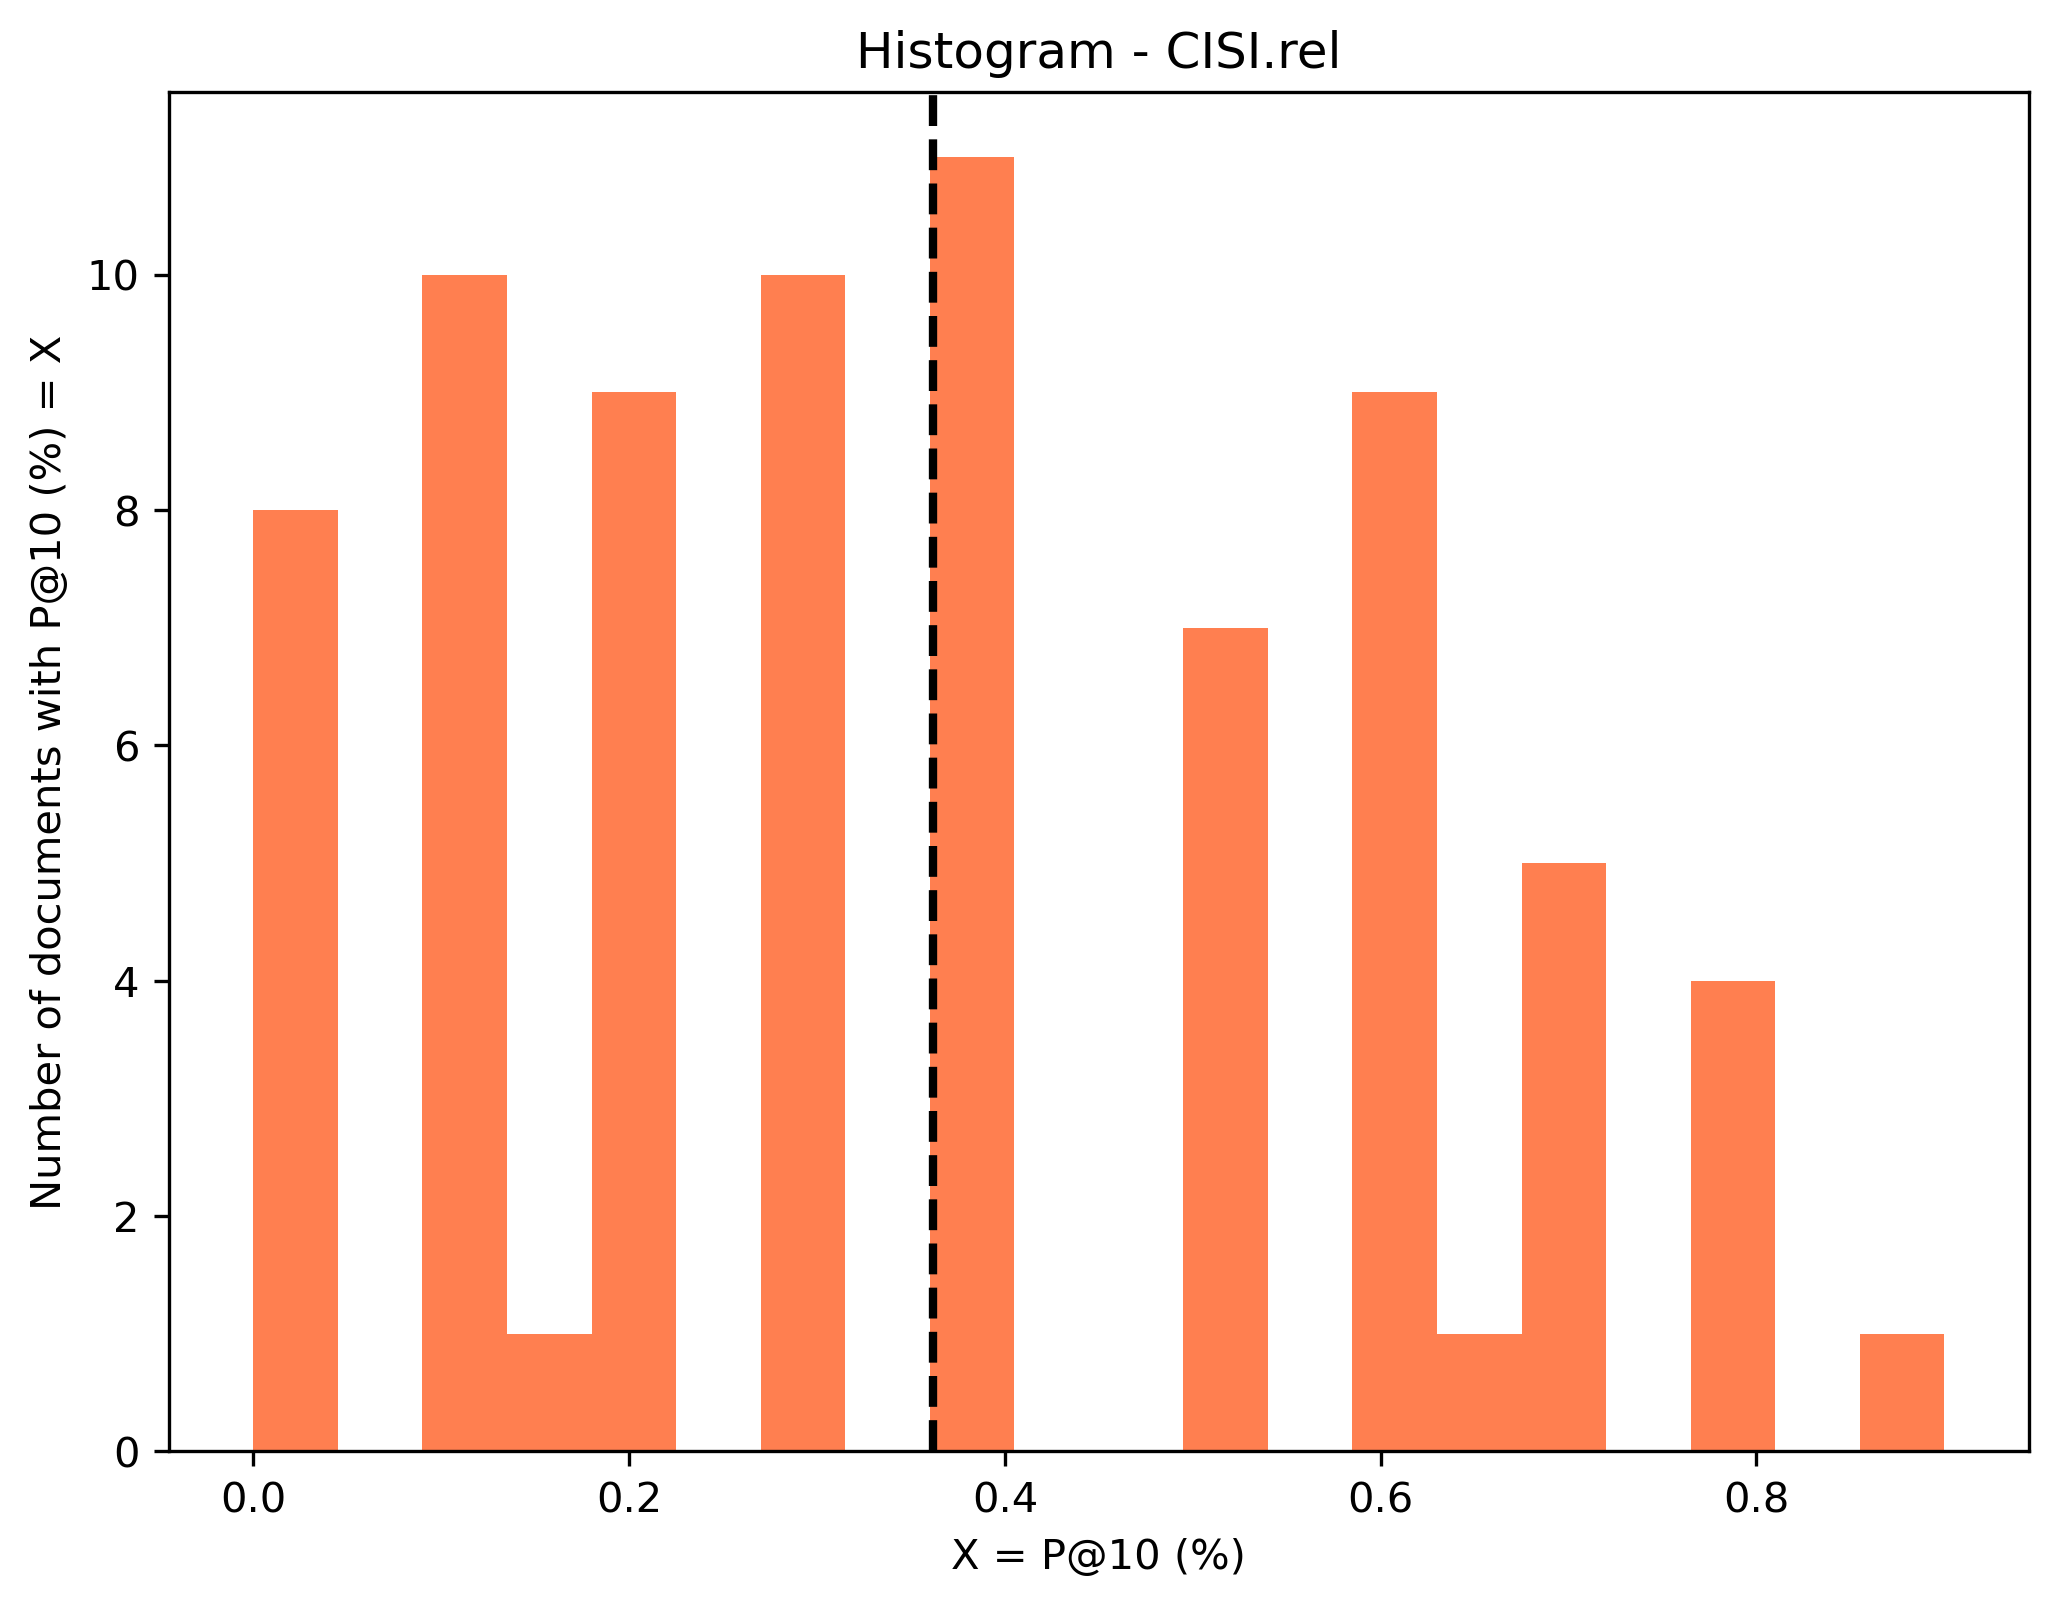
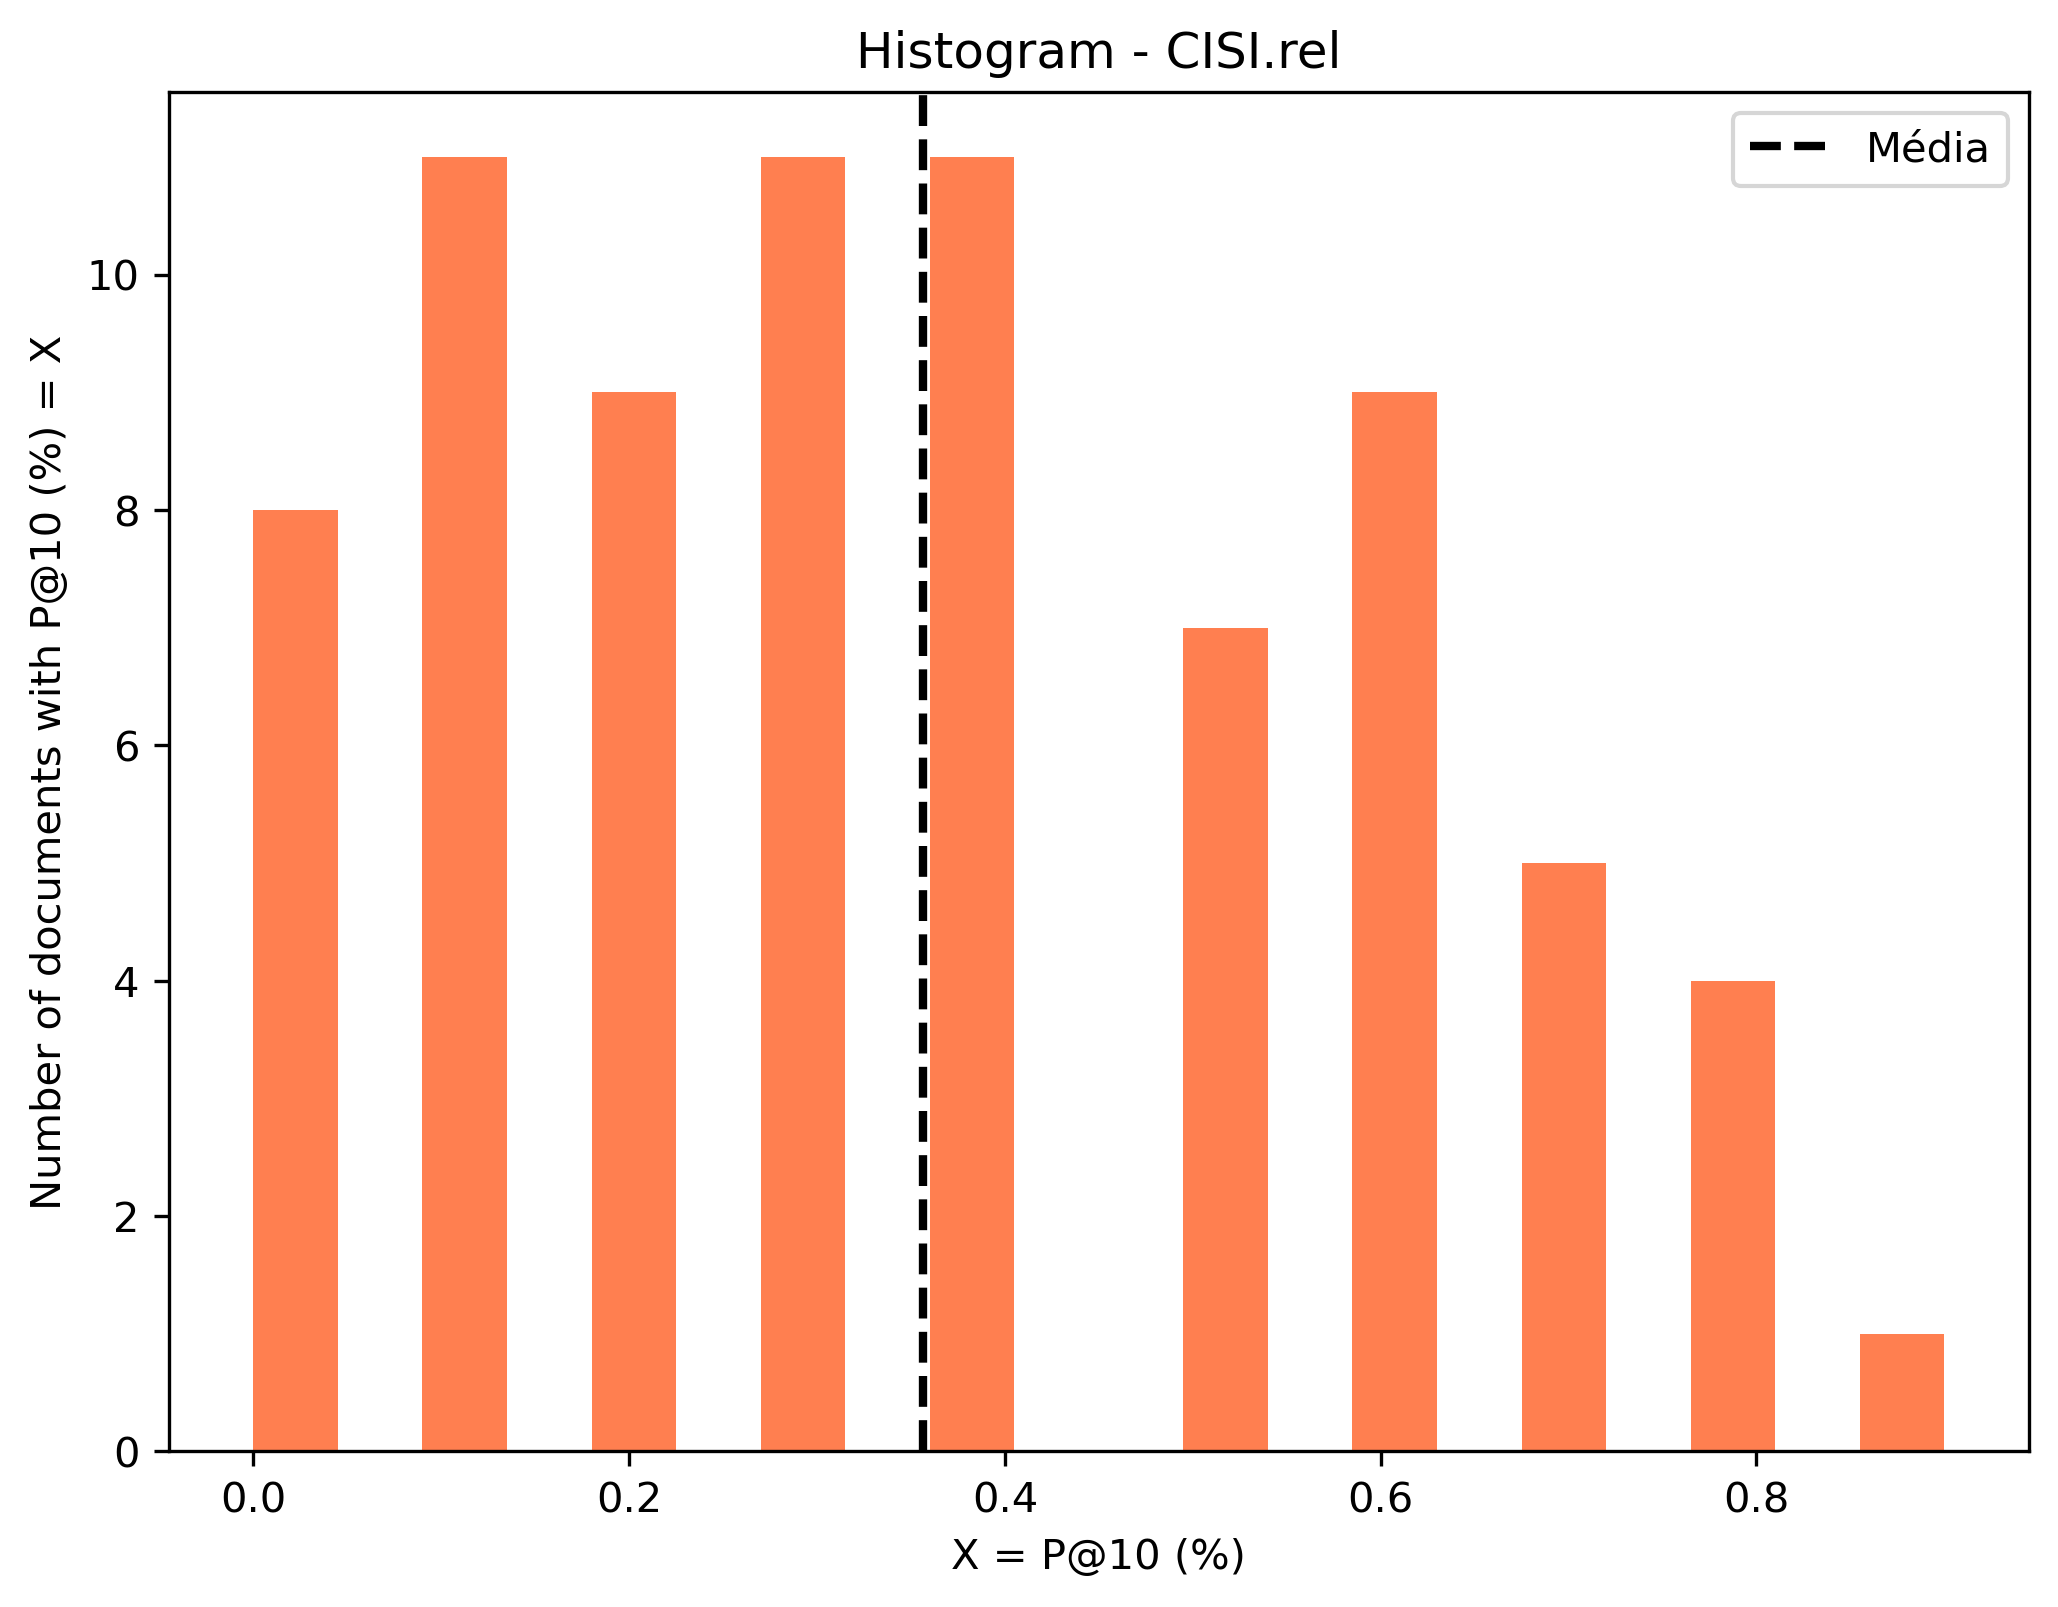
Extrai o cálculo do precision_at_k para uma função. Corrige o relatório para usar a implementação tradicional do precision_at_k

diff --git a/README.md b/README.md
@@ -255,9 +255,11 @@ De acordo com o arquivo cisi.rel, essa query tem os seguintes documentos relevan
 
 Para avaliar os resultados em toda a base CISI, vamos considerar a métrica [_precision at 10_ (P@10)](https://en.wikipedia.org/wiki/Evaluation_measures_(information_retrieval)), que corresponde ao número de resultados relevantes nas 10 primeiras posições. Para facilitar a visualização, vamos considerar esse valor em termos percentuais. Assim, se 7 documentos relevantes forem encontrados nas primeiras 10 posições (P@10 = 7), podemos calcular P@10 (%) como 7/10 = 70%.
 
-Considerando que essa base é muito pequena e que há casos (como a query 111 acima) em que não há 10 documentos relevantes, o denominador do P@10 (%) será adaptado para considerar essa situação, ou seja, P@10 (%) = número de documentos relevantes encontrados nas primeiras 10 posições do ranking dividido pelo mínimo entre 10 e número de documentos relevantes para a query.
+Uma questão importante aqui é que essa base é muito pequena e há casos (como a query 111) em que não há 10 documentos relevantes. Suponha um exemplo em que há apenas 5 documentos relevantes e que query traga todos esses documentos nas 10 primeiras posições. Enquanto o numerador da métrica sempre ficará limitado pela quantidade máxima de documentos relevante (5), o denominador é fixo (10). Nesse exemplo fictício, mesmo encontrando todos os 5 documentos a métrica P@10 retornaria apenas 50% de precisão. Uma forma de corrigir isso seria alterar o denominador para, em vez de dividir por 10, dividir pelo menor valor entre 10 e a quantidade total de documentos relevantes.
 
-O histograma abaixo mostra o P@10 (%) calculado para todas as queries disponíveis no arquivo cisi.rel. A média é 0.362, o que indica que essa implementação retornou, em média, 3,62 documentos relevantes entre os 10 primeiros.
+Entretanto, para manter a padronização com a métrica, vamos fazer a implementação tradicional dividindo por 10.
+
+O histograma abaixo mostra o P@10 (%) calculado para todas as queries disponíveis no arquivo cisi.rel. A média é 0.356, o que indica que essa implementação retornou, em média, 3,56 documentos relevantes entre os 10 primeiros.
 
 ![image](./notebook/histograma.png)
 
@@ -348,7 +350,7 @@ Ou seja, há uma diferença no argumento do logaritmo neperiano (+1), o que just
 
 Se adicionarmos + 1 a implementação do ChatGPT ou removermos esse +1 da implementação feita aqui, o resultado passa a ser idêntico. Mas, em vez de ajustar essa diferença, vamos calcular o P@10 (%) na CISI collection e comparar os resultados da implementação do ChatGPT com a feita anteriormente:
 
-O histograma abaixo mostra o P@10 (%) calculado para todas as queries disponíveis no arquivo cisi.rel usando a formulação da wikipedia (média 0.362) e a formulação do ChatGPT (média 0.352). Há pouca diferença entre os resultados.
+O histograma abaixo mostra o P@10 (%) calculado para todas as queries disponíveis no arquivo cisi.rel usando a formulação da wikipedia (média 0.356) e a formulação do ChatGPT (média 0.346). Há pouca diferença entre os resultados.
 
 ![image](./notebook/histograma_chat_gpt_implementation.png)
 
